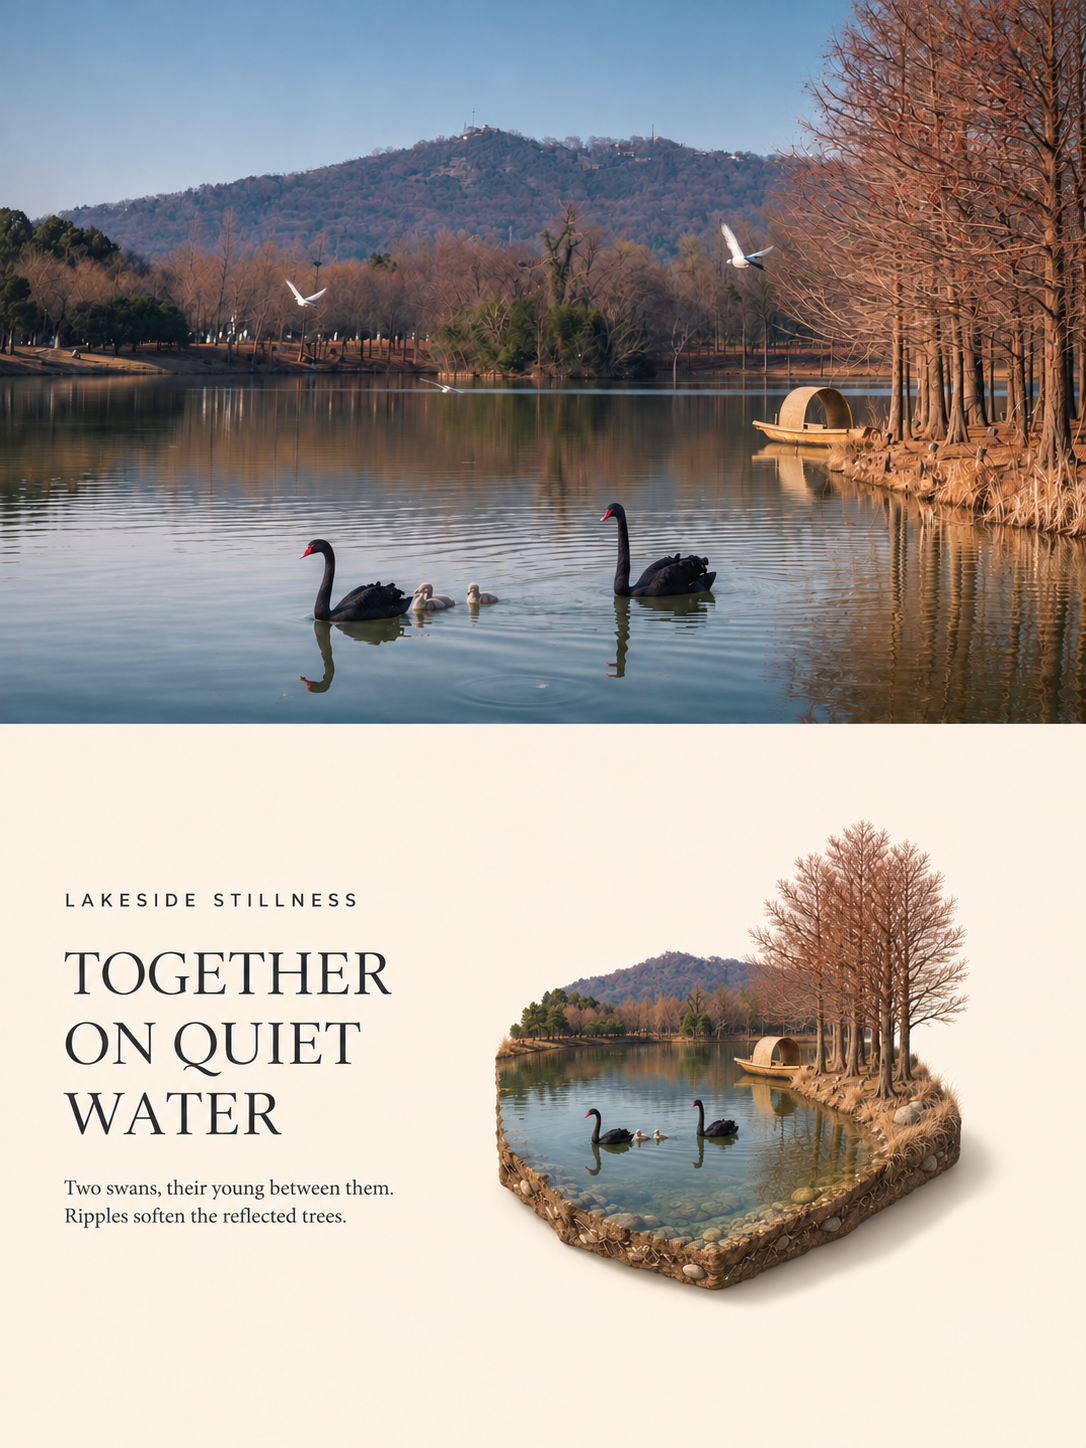
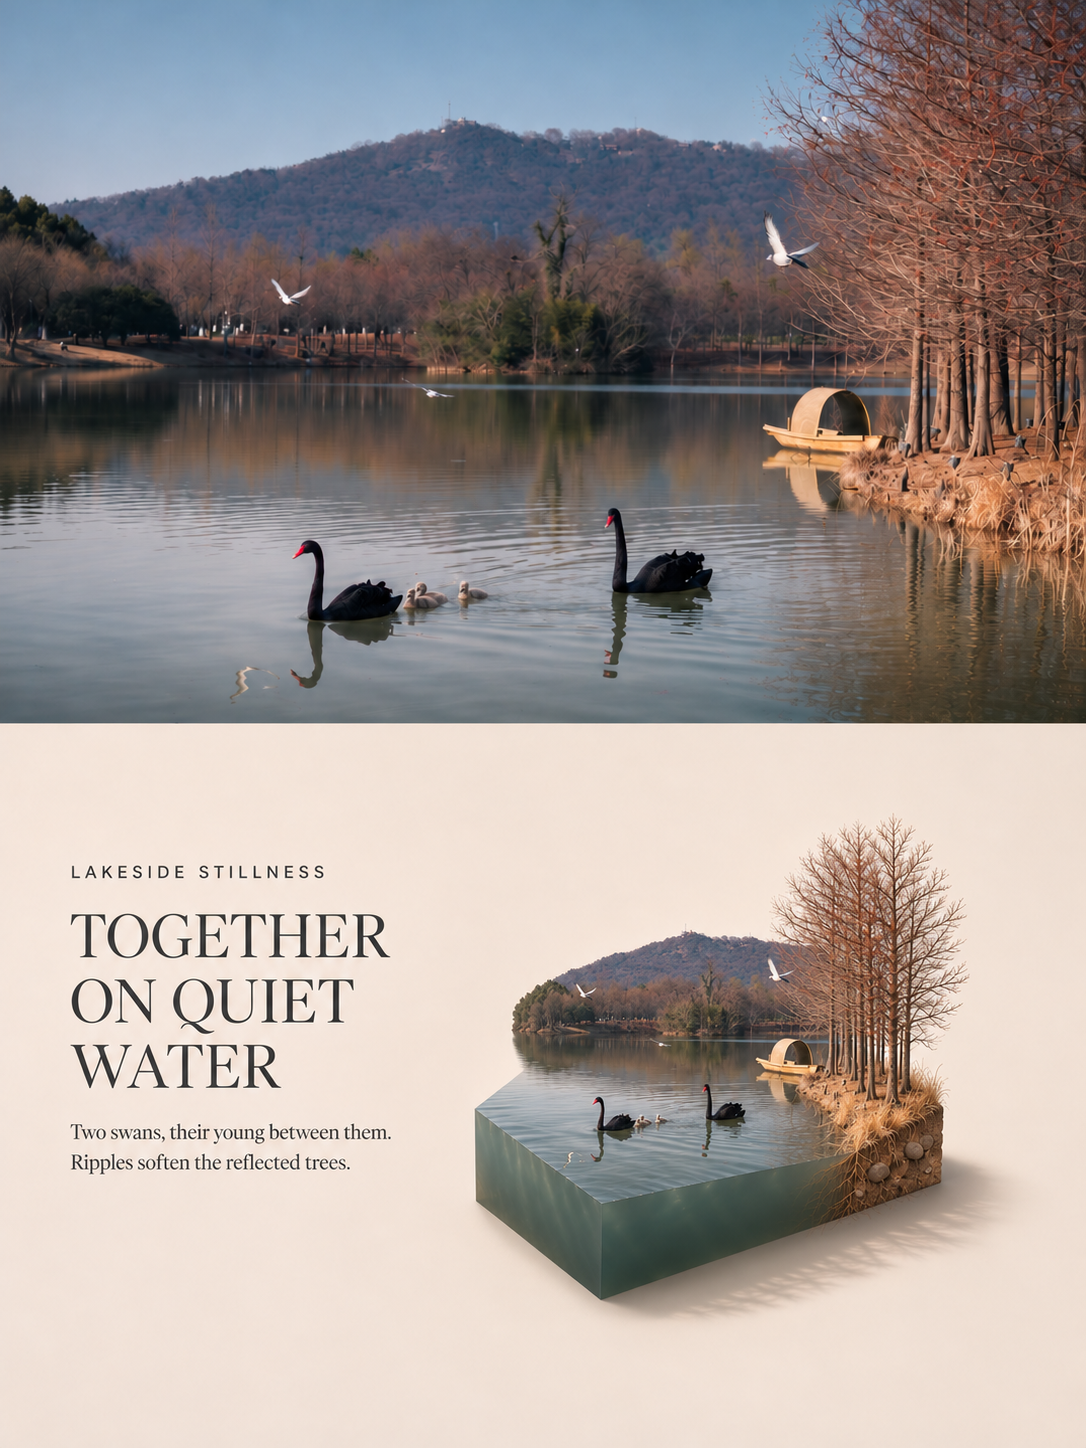
Refresh lake example for v1.4 water cross-sections

Changed region(s): [[0.0, 0.0, 1.0, 0.4972], [0.4254, 0.5594, 0.942, 0.9323], [0.0608, 0.5905, 0.3646, 0.8702]]

diff --git a/posters/photo-to-isometric-diorama-poster/README.md b/posters/photo-to-isometric-diorama-poster/README.md
@@ -25,6 +25,8 @@
 
 本效果是 [海报技能集合](../../README.md) 中的一个独立技能。
 
+[下载 v1.4 独立安装包](https://github.com/zhuchenyang/Photo-Poster-Skills/releases/download/isometric-diorama-v1.4/photo-to-isometric-diorama-poster-v1.4.zip)。
+
 优先下载对应 Release 附带的 `photo-to-isometric-diorama-poster-v<版本>.zip`，解压后将 `photo-to-isometric-diorama-poster` 文件夹放入 Codex 用户技能目录（通常为 `~/.codex/skills/`；设置 `CODEX_HOME` 时使用其 `skills` 子目录）。
 
 也可下载集合仓库源码，只复制 `posters/photo-to-isometric-diorama-poster/`。不要把整个仓库克隆到单个技能目录。已有同名技能时先备份再更新。
@@ -64,4 +66,4 @@ CLI/API 备用方式仅在用户明确选择时使用，可能需要本地配置
 
 水面下方的模型体积与外露侧面默认表现为水体，不再默认展示河床、湖床或海床土石剖面。保持原照水色、透明度与浑浊程度，不添加土石托底或围边。混合场景按区域区分：陆地展示土石或结构剖面，水域展示水体截面，并在岸线自然衔接。原照清楚可见水底或用户明确要求时，可展示相应水底细节。
 
-上方三张示例制作于 v1.3，用于展示整体版式；其中水体基座尚未按 v1.4 新规则重新生成。
+湖畔示例已更新为 v1.4 最终成品，展示水体截面与岸边土壤剖面的分区处理。海崖和灯塔示例保留 v1.3 成品，用于展示整体版式。
